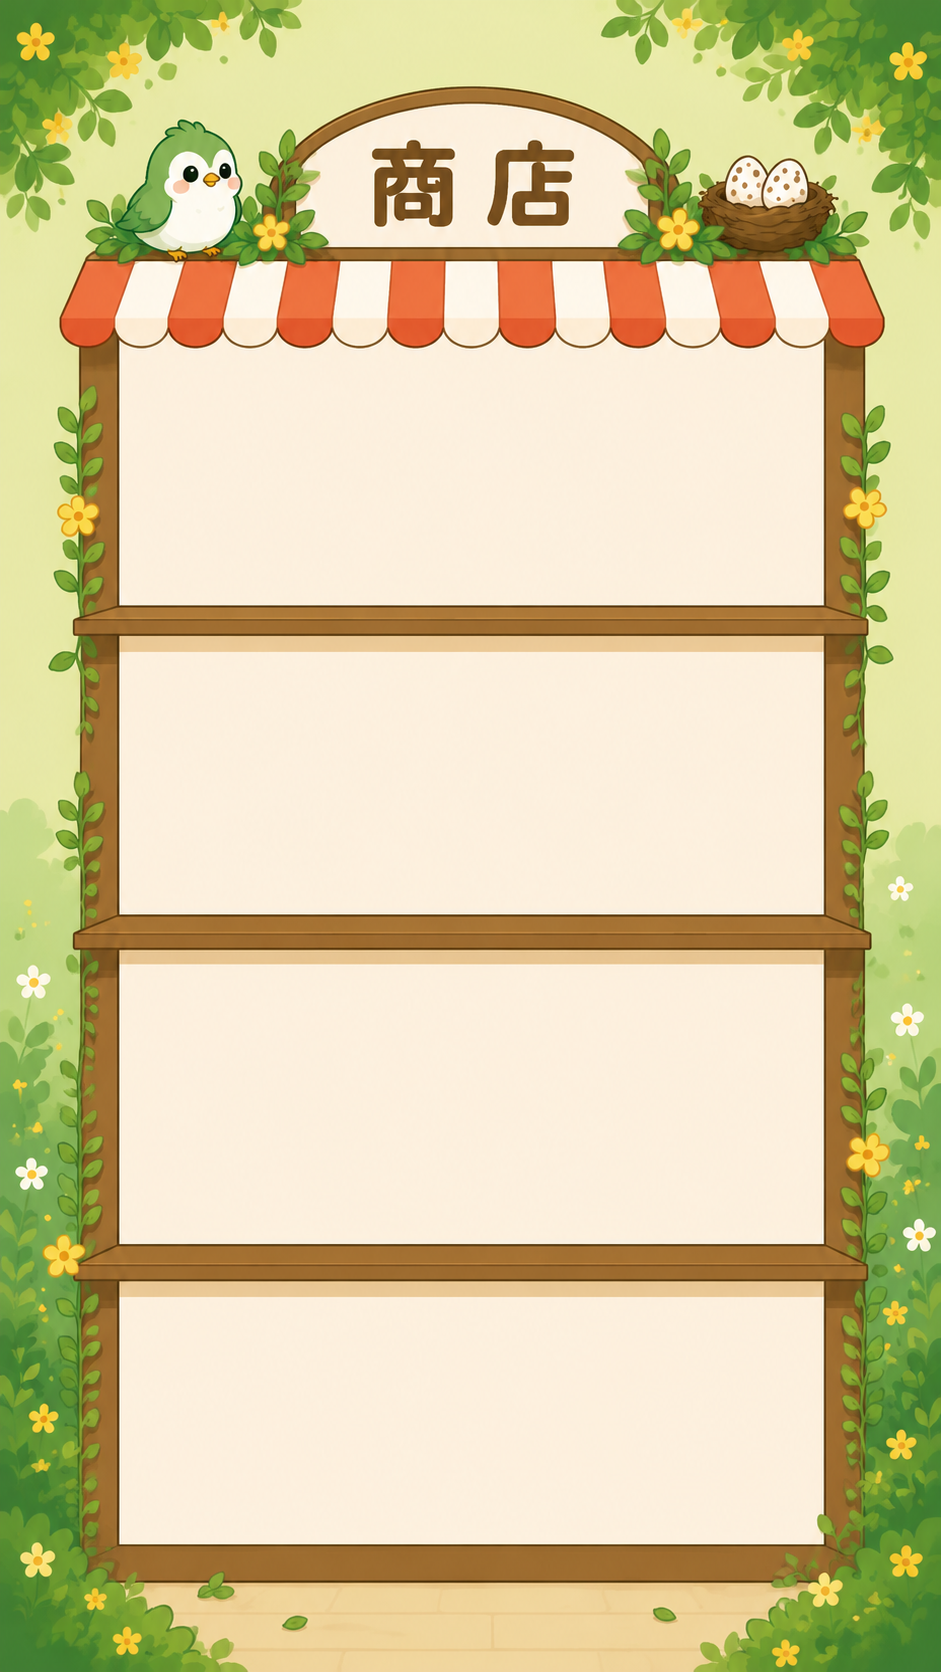
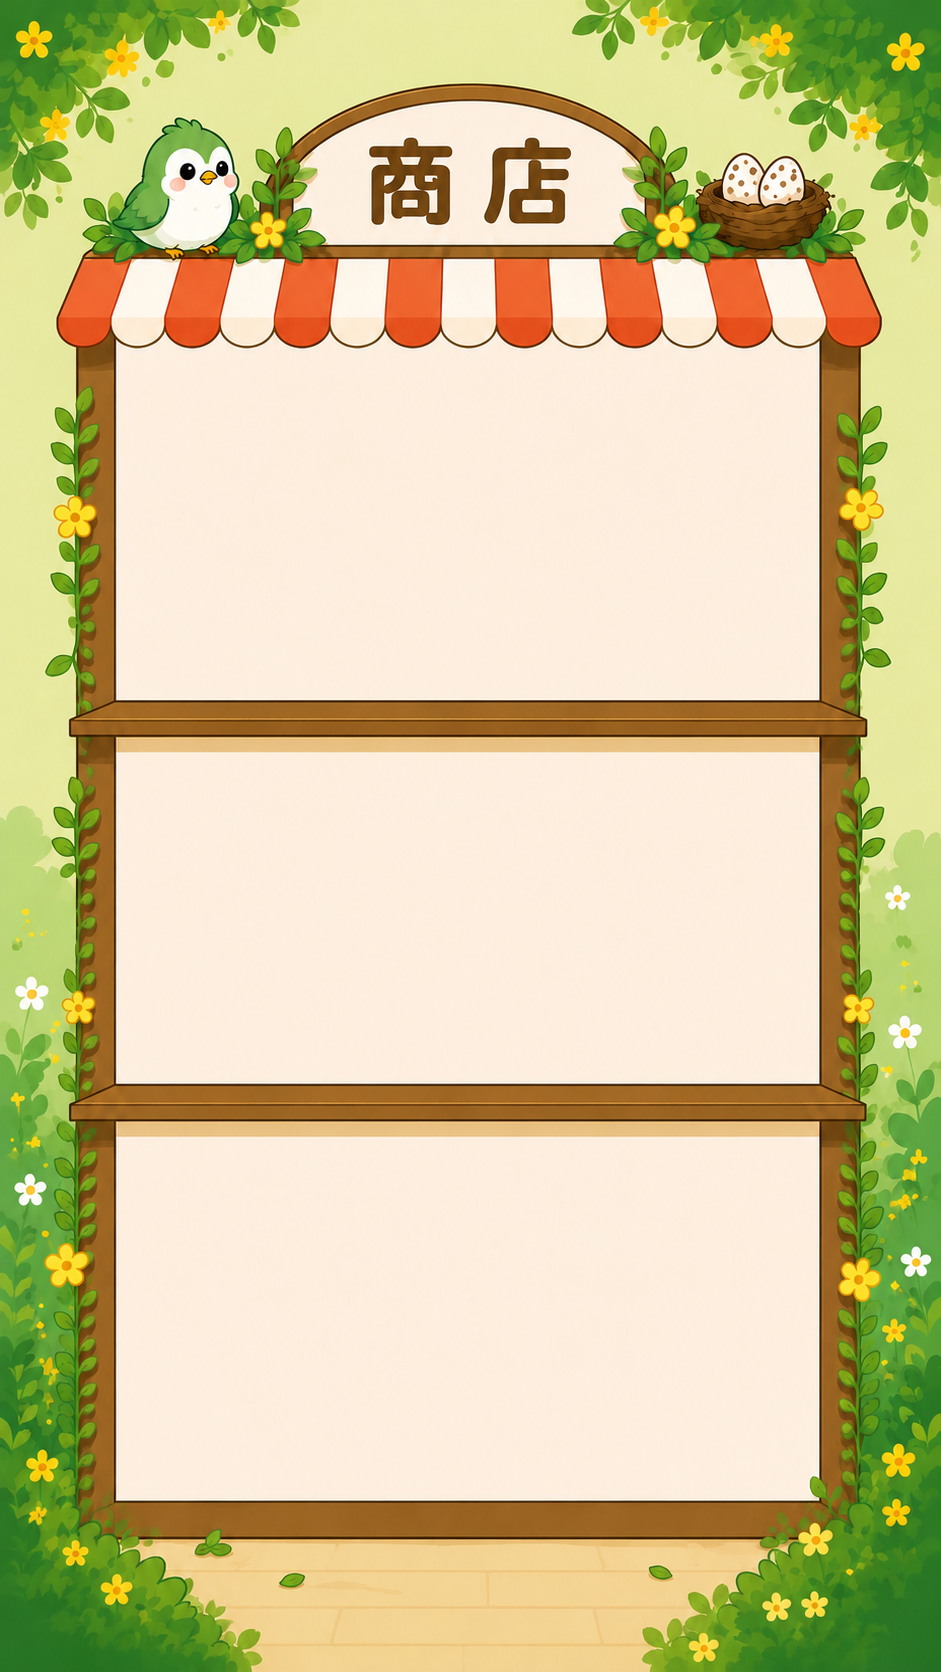
update: birds data, pet/shed pages, storage utils

diff --git a/data/birds.js b/data/birds.js
@@ -395,10 +395,11 @@ const PET_BIRDS = [
 ];
 
 const STAGES = [
-  { key: 'egg', label: '鸟蛋', nextExp: 100 },
-  { key: 'chick', label: '幼年', nextExp: 300 },
-  { key: 'adult', label: '成年', nextExp: 600 },
-  { key: 'ultimate', label: '究极', nextExp: 1000 }
+  { key: 'egg', label: '鸟蛋', nextExp: 100, reqExp: 100 },
+  { key: 'chick', label: '幼年', nextExp: 300, reqExp: 200 },
+  { key: 'adult', label: '成年', nextExp: 600, reqExp: 300 },
+  { key: 'prime', label: '盛年', nextExp: 900, reqExp: 300 },
+  { key: 'ultimate', label: '究极', nextExp: 1350, reqExp: 450 }
 ];
 
 const FEED_PRICE = 20;
@@ -408,16 +409,18 @@ function getStage(exp) {
   if (exp < 100) return { ...STAGES[0], baseExp: 0 };
   if (exp < 300) return { ...STAGES[1], baseExp: 100 };
   if (exp < 600) return { ...STAGES[2], baseExp: 300 };
-  if (exp < 1000) return { ...STAGES[3], baseExp: 600 };
-  return { ...STAGES[3], isMax: true, nextExpLabel: 'MAX', baseExp: 600 };
+  if (exp < 900) return { ...STAGES[3], baseExp: 600 };
+  if (exp < 1350) return { ...STAGES[4], baseExp: 900 };
+  return { ...STAGES[4], isMax: true, nextExpLabel: 'MAX', baseExp: 900 };
 }
 
 function getStageIndex(exp) {
   if (exp < 100) return 0;
   if (exp < 300) return 1;
   if (exp < 600) return 2;
-  if (exp < 1000) return 3;
-  return 3;
+  if (exp < 900) return 3;
+  if (exp < 1350) return 4;
+  return 4;
 }
 
 module.exports = {

diff --git a/utils/storage.js b/utils/storage.js
@@ -264,12 +264,28 @@ function createRandomPet() {
   return pet;
 }
 
+function retirePet(pet) {
+  const state = getUserState();
+  if (!state.birdShed) state.birdShed = [];
+  if (pet) {
+    state.birdShed.push({
+      birdId: pet.birdId,
+      exp: pet.exp,
+      feedCount: pet.feedCount,
+      retiredAt: Date.now()
+    });
+  }
+  state.currentBird = null;
+  setUserState(state);
+  return state;
+}
+
 module.exports = {
   getUserState, setUserState,
   getTutorialCompleted, setTutorialCompleted,
   addScore, getCurrentPet, setCurrentPet, feedPet, addToCodex,
   completeFirstLearning, recordReview, getDueReviews, getReviewStatus, getProgress,
   getFeedStock, addFeedStock, consumeFeed,
-  getOwnedPetTypes, recordOwnedPetType, createRandomPet,
+  getOwnedPetTypes, recordOwnedPetType, createRandomPet, retirePet,
   loadFromCloud, setIsGuestMode, getIsGuestMode
 };

diff --git a/pages/pet/pet.js b/pages/pet/pet.js
@@ -1,5 +1,5 @@
 /** 宠物养成 */
-const { getUserState, getCurrentPet, setCurrentPet, feedPet, getFeedStock, consumeFeed, createRandomPet } = require('../../utils/storage');
+const { getUserState, getCurrentPet, setCurrentPet, feedPet, getFeedStock, consumeFeed, createRandomPet, retirePet } = require('../../utils/storage');
 const { PET_BIRDS, getStage, getStageIndex, FEED_PRICE, FEED_EXP } = require('../../data/birds');
 
 function getPetBird(birdId) {
@@ -47,8 +47,7 @@ Page({
     const pet = getCurrentPet();
     const stageInfo = pet ? getStage(pet.exp) : null;
     if (stageInfo) {
-      stageInfo.isMax = stageInfo.key === 'ultimate';
-      stageInfo.nextExpLabel = stageInfo.isMax ? 'MAX' : stageInfo.nextExp;
+      stageInfo.isMax = stageInfo.key === 'ultimate' && pet.exp >= 1350;
     }
     const currentExp = pet && stageInfo ? pet.exp - stageInfo.baseExp : 0;
     this.setData({
@@ -94,12 +93,13 @@ Page({
     const updated = feedPet(FEED_EXP);
     this.refresh();
     const newStage = getStageIndex(updated.exp);
-    if (oldStageIndex === 3 && oldPet.exp < 1000 && updated.exp >= 1000) {
-      // 究极满级，获得新鸟蛋
+    if (oldStageIndex === 4 && oldPet.exp < 1350 && updated.exp >= 1350) {
+      // 究极满级，旧鸟移居鸟舍，获得新鸟蛋
       const oldBird = getPetBird(oldPet.birdId);
+      retirePet(oldPet);
       wx.showModal({
         title: '恭喜！',
-        content: `你的${oldBird.name}已经究极满级！获得一颗新的鸟蛋！`,
+        content: `你的${oldBird.name}已经究极满级！它已移居鸟舍，获得一颗新的鸟蛋！`,
         showCancel: false,
         success: () => {
           const newPet = createRandomPet();

diff --git a/pages/shed/shed.js b/pages/shed/shed.js
@@ -1,5 +1,6 @@
 /** 鸟舍页面 */
 const { getUserState } = require('../../utils/storage');
+const { PET_BIRDS, getStage } = require('../../data/birds');
 
 Page({
   data: {
@@ -17,9 +18,16 @@ Page({
 
   refresh() {
     const user = getUserState();
-    this.setData({
-      birdShed: user.birdShed || []
+    const shed = (user.birdShed || []).map(item => {
+      const bird = PET_BIRDS.find(b => b.id === item.birdId);
+      const stage = getStage(item.exp);
+      return {
+        ...item,
+        name: bird ? bird.name : '未知鸟类',
+        stageLabel: stage.label
+      };
     });
+    this.setData({ birdShed: shed });
   },
 
   onBackTap() {